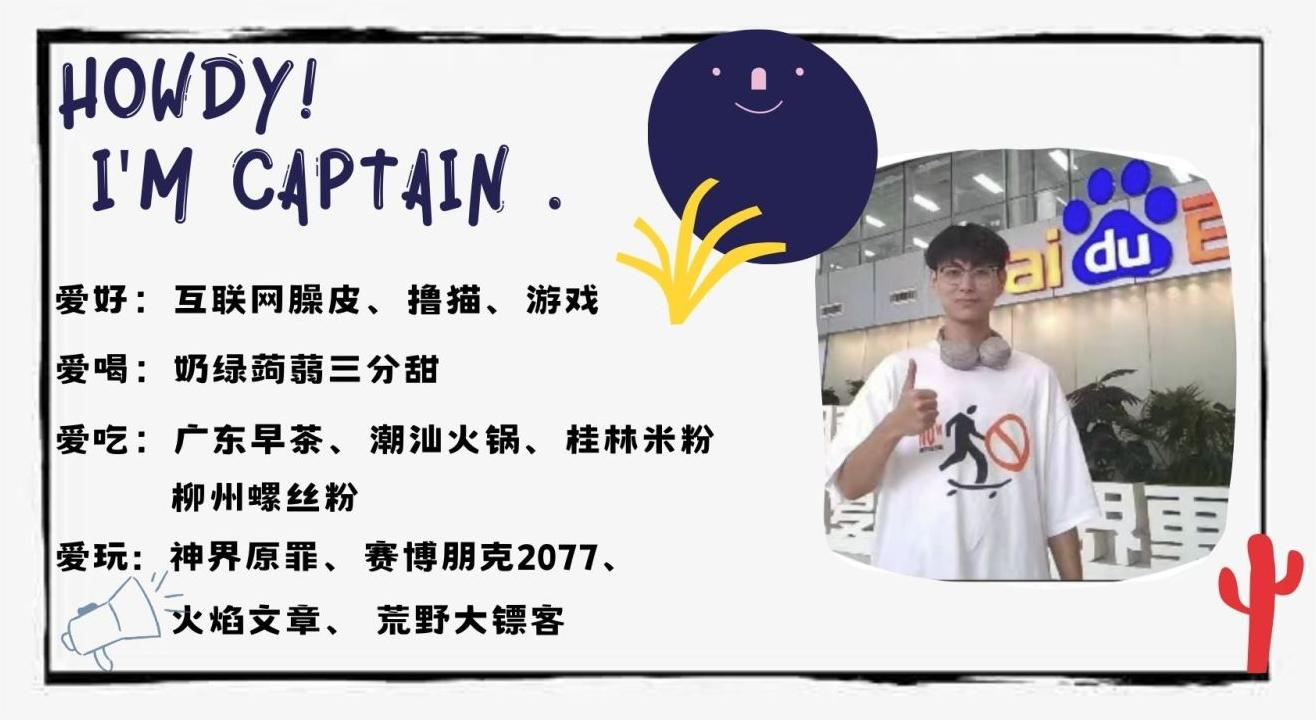
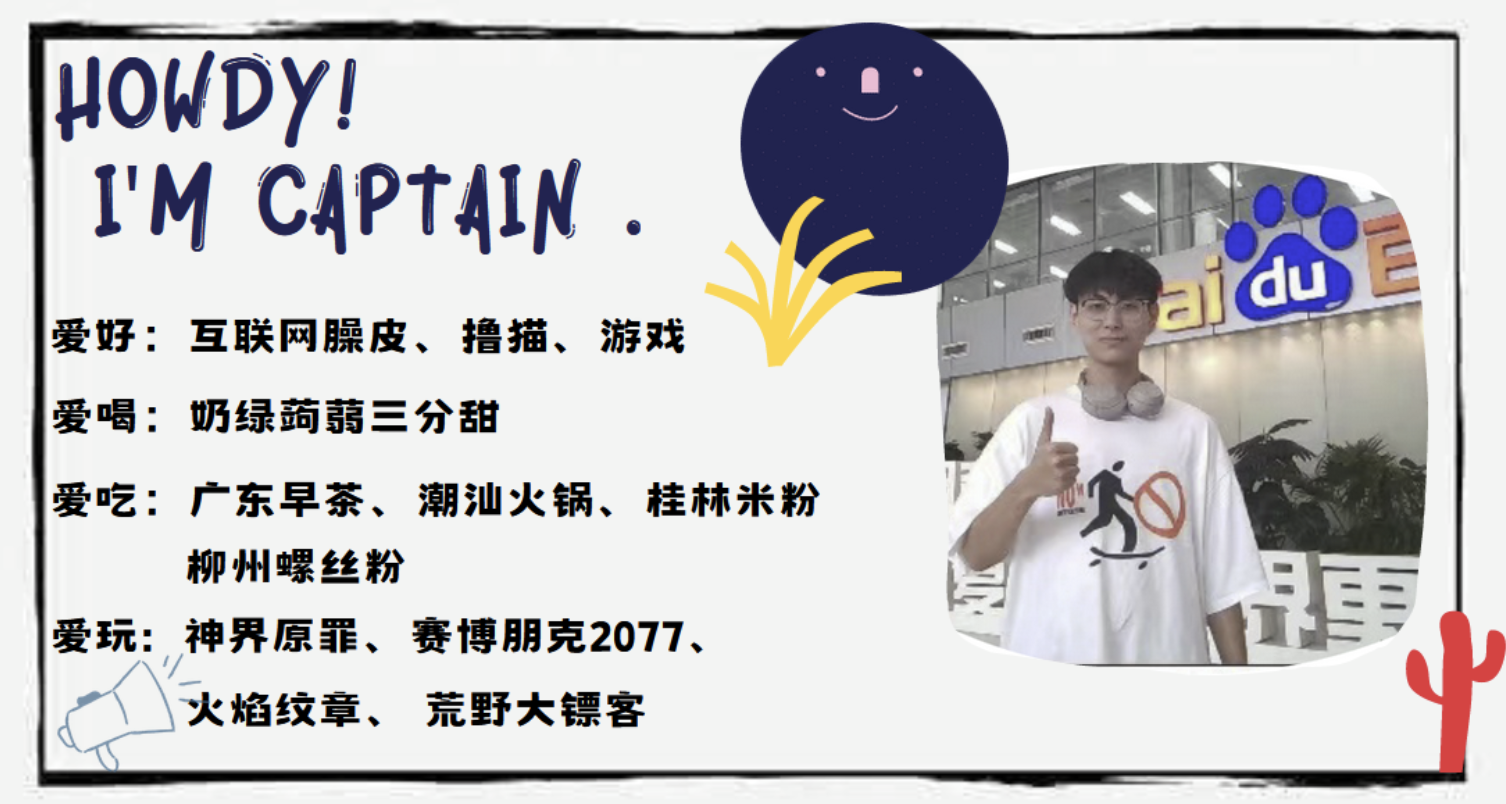
zhengbicheng-story

Changed region(s): [[0.0, 0.0, 1.0, 1.0], [0.5608, 0.0917, 0.5919, 0.1528]]

diff --git a/src/posts/zheng-story.md b/src/posts/zheng-story.md
@@ -11,7 +11,7 @@ co_authors:
      github: Zheng-Bicheng
 ---
 
-集百家之阴阳，合一家之糟粕。好消息！好消息！号称 Paddle 社区“最想当 PM 的程序员” 、“Paddle 首席阴阳家”—— Zheng-bicheng，闪亮登场 🥳🎉🎉🎉。你想掌握最前沿的阴阳技巧么？你想成为和他一样优秀的开发者吗？你想和他一样眼神 👀 中透露着睿智的光芒，小脑袋瓜里装满各种各样的知识么？那就快来看看这篇博客吧！🌹
+集百家之阴阳，合一家之糟粕。好消息！好消息！自称 Paddle 社区“最想当 PM 的程序员” 、“Paddle 首席阴阳家”—— Zheng-bicheng，闪亮登场 🥳🎉🎉🎉。你想掌握最前沿的阴阳技巧么？你想成为和他一样优秀的开发者吗？你想和他一样眼神 👀 中透露着睿智的光芒，小脑袋瓜里装满各种各样的知识么？那就快来看看这篇博客吧！🌹
 
 <!-- more -->
 
@@ -66,7 +66,7 @@ figcaption {
 
 1. **先介绍一下自己吧，郑师傅！**
 
-   **郑师傅：** 各位大佬好，我是郑必城（@[Zheng-Bicheng](https://github.com/Zheng-Bicheng)）🐶🐶，开源社区的菜鸟一枚，毕业于普普通通的闽江学院。
+   **郑师傅：** 各位大佬好，我是郑必城（[@Zheng-Bicheng](https://github.com/Zheng-Bicheng)）🐶🐶，开源社区的菜鸟一枚，毕业于普普通通的闽江学院。
 
 2. **大学时你的专业是人工智能，为什么当时选择这个专业？**
 
@@ -171,9 +171,9 @@ figcaption {
 
 13.   **最后，你想对和你一样努力 💪 开源的开源者说些什么呢？**
 
-      **郑师傅：** 和张师傅（@[liyulingyue](https://github.com/liyulingyue)）这群开源奋斗逼相比，我实在太摸鱼了。希望大家都能向张师傅学习，在开源中贡献自己的力量。
+      **郑师傅：** 和张师傅（[@liyulingyue](https://github.com/liyulingyue)）这群开源奋斗逼相比，我实在太摸鱼了。希望大家都能向张师傅学习，在开源中贡献自己的力量。
 
-## 三、从你的全世界路过——郑师傅（Captain）篇
+## 三、从你的全世界路过——郑师傅篇
 
 前几篇博客上都有板块谈大家对被采访者的印象，但是今天郑师傅想来个板块单独谈谈**他对社区大佬的印象** 🤩🤩🤩。由于在 Paddle 社区，大佬实在太多了，郑师傅就抽一部分大佬讲讲他对他们的印象。
 
@@ -217,7 +217,7 @@ figcaption {
 
 就一个字，神！
 
-## 四、Captain Zheng 的名言集
+## 四、 郑师傅的名言集
 
 <div style="display: flex; justify-content: center">
    <figure style="width: 70%;">
